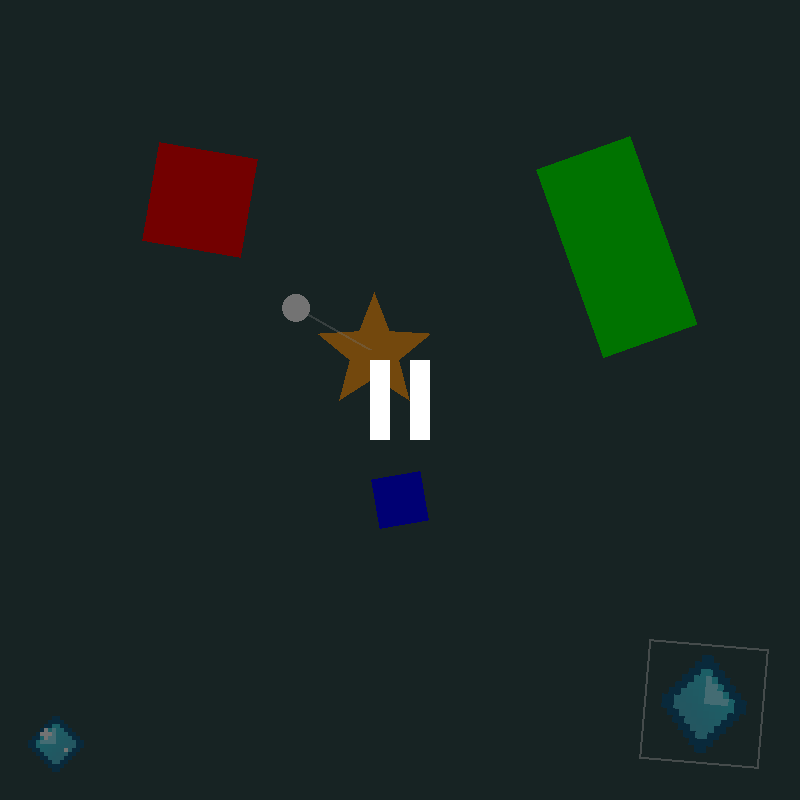
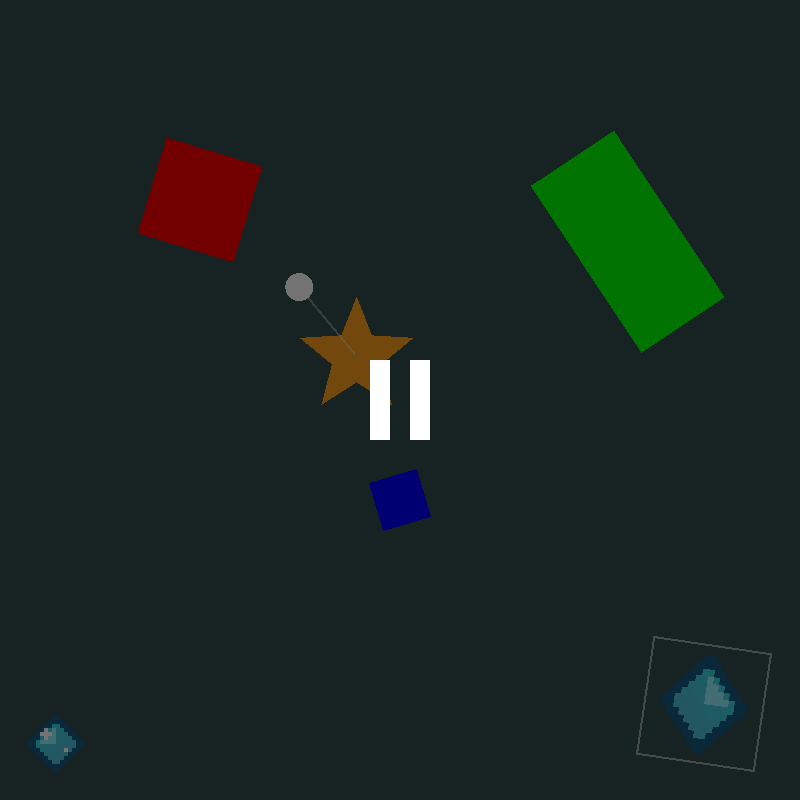
Fix the review findings: far-off polygons, capture on exit, overlay transform, sheet bleed

diff --git a/src/Evil.Engine/Hosting/EngineWindow.cs b/src/Evil.Engine/Hosting/EngineWindow.cs
@@ -67,11 +67,19 @@ internal sealed class EngineWindow : GameWindow
         }
 
         _frame++;
-        if (game.IsExiting || game.Scenes.Count == 0)
+        if (!game.IsExiting && game.Scenes.Count > 0)
         {
-            _closing = true;
-            Close();
+            return;
         }
+
+        if (game.HasPendingCaptures && game.Scenes.Count > 0)
+        {
+            _closeAfterRender = true;
+            return;
+        }
+
+        _closing = true;
+        Close();
     }
 
     protected override void OnRenderFrame(FrameEventArgs args)
@@ -108,13 +116,21 @@ internal sealed class EngineWindow : GameWindow
     protected override void OnKeyDown(KeyboardKeyEventArgs e)
     {
         base.OnKeyDown(e);
-        _keyboard.Press((Key)(int)e.Key, e.IsRepeat);
+        var key = (Key)(int)e.Key;
+        if (Enum.IsDefined(key))
+        {
+            _keyboard.Press(key, e.IsRepeat);
+        }
     }
 
     protected override void OnKeyUp(KeyboardKeyEventArgs e)
     {
         base.OnKeyUp(e);
-        _keyboard.Release((Key)(int)e.Key);
+        var key = (Key)(int)e.Key;
+        if (Enum.IsDefined(key))
+        {
+            _keyboard.Release(key);
+        }
     }
 
     protected override void OnMouseMove(MouseMoveEventArgs e)
@@ -149,11 +165,17 @@ internal sealed class EngineWindow : GameWindow
 
     protected override void OnUnload()
     {
-        _game?.Scenes.ExitAll();
-        _textures?.Dispose();
-        _white?.Dispose();
-        _renderer?.Dispose();
-        base.OnUnload();
+        try
+        {
+            _game?.Scenes.ExitAll();
+        }
+        finally
+        {
+            _textures?.Dispose();
+            _white?.Dispose();
+            _renderer?.Dispose();
+            base.OnUnload();
+        }
     }
 
     private static GameWindowSettings GameSettings(WindowSettings window) => new()

diff --git a/src/Evil.Engine/Graphics/BatchRenderer.cs b/src/Evil.Engine/Graphics/BatchRenderer.cs
@@ -47,7 +47,11 @@ internal sealed class BatchRenderer : ITriangleSink, IDisposable
         GL.Disable(EnableCap.DepthTest);
         GL.Disable(EnableCap.CullFace);
         GL.Enable(EnableCap.Blend);
-        GL.BlendFunc(BlendingFactor.SrcAlpha, BlendingFactor.OneMinusSrcAlpha);
+        GL.BlendFuncSeparate(
+            BlendingFactorSrc.SrcAlpha,
+            BlendingFactorDest.OneMinusSrcAlpha,
+            BlendingFactorSrc.One,
+            BlendingFactorDest.OneMinusSrcAlpha);
         _shader.Use();
         _shader.Set("u_viewport", viewport);
         _shader.Set("u_texture", 0);
@@ -105,8 +109,7 @@ internal sealed class BatchRenderer : ITriangleSink, IDisposable
         GL.BindTexture(TextureTarget.Texture2D, _texture.Handle);
         GL.BindVertexArray(_vertexArray);
         GL.BindBuffer(BufferTarget.ArrayBuffer, _vertexBuffer);
-        GL.BufferData(BufferTarget.ArrayBuffer, Capacity * Vertex.SizeInBytes, IntPtr.Zero, BufferUsageHint.StreamDraw);
-        GL.BufferSubData(BufferTarget.ArrayBuffer, IntPtr.Zero, _count * Vertex.SizeInBytes, _vertices);
+        GL.BufferData(BufferTarget.ArrayBuffer, _count * Vertex.SizeInBytes, _vertices, BufferUsageHint.StreamDraw);
         GL.DrawArrays(PrimitiveType.Triangles, 0, _count);
         DrawCalls++;
         Triangles += _count / 3;

diff --git a/tests/Evil.Engine.Tests/TextureTests.cs b/tests/Evil.Engine.Tests/TextureTests.cs
@@ -1,4 +1,6 @@
+using System.Numerics;
 using Evil.Engine.Graphics;
+using Evil.Engine.Textures;
 using Evil.Engine.Mathematics;
 
 namespace Evil.Engine.Tests;
@@ -30,6 +32,20 @@ internal static class TextureTests
         var quarter = sheet.Region(32, 32, 32, 32);
         Check.Equal(new RectI(40, 36, 8, 8), quarter.Region(new RectI(8, 4, 8, 8)).Source, "offset inside the parent");
         Check.Throws<ArgumentOutOfRangeException>(() => quarter.Region(new RectI(30, 0, 8, 8)));
+    }
+
+    [Test]
+    public static void SmoothSheetsStayInsideTheirCell()
+    {
+        var smooth = Fakes.Texture(32, 16, "smooth", TextureFilter.Linear);
+        var canvasAndSink = Fakes.Canvas();
+        canvasAndSink.Canvas.Draw(smooth.Grid(16, 16)[1], new RectF(0f, 0f, 32f, 32f));
+        var vertices = canvasAndSink.Sink.Vertices;
+        Check.Near(new Vector2(16.5f / 32f, 0.5f / 16f), vertices[0].TexCoord, "top-left half a texel in");
+        Check.Near(new Vector2(31.5f / 32f, 15.5f / 16f), vertices[4].TexCoord, "bottom-right half a texel in");
+        canvasAndSink.Sink.Batches.Clear();
+        canvasAndSink.Canvas.Draw(smooth, new RectF(0f, 0f, 32f, 16f));
+        Check.Near(Vector2.Zero, canvasAndSink.Sink.Vertices[0].TexCoord, "the whole texture keeps its edges");
     }
 
     [Test]

diff --git a/tests/Evil.Engine.Tests/SceneTests.cs b/tests/Evil.Engine.Tests/SceneTests.cs
@@ -1,3 +1,4 @@
+using System.Numerics;
 using Evil.Engine.Graphics;
 using Evil.Engine.Hosting;
 using Evil.Engine.Mathematics;
@@ -71,6 +72,18 @@ internal static class SceneTests
     }
 
     [Test]
+    public static void AnOverlayStartsFromAClearTransform()
+    {
+        var scenes = new SceneStack(null);
+        scenes.Push(new CameraScene());
+        scenes.Push(new LoggingScene("pause", [], overlay: true));
+        scenes.ApplyChanges();
+        var (canvas, sink, _) = Fakes.Canvas();
+        scenes.Draw(canvas);
+        Check.Near(Vector2.Zero, sink.Batches[^1].Vertices[0].Position, "the overlay is not moved by the camera below");
+    }
+
+    [Test]
     public static void ASceneThatForgetsPopIsNamed()
     {
         var scenes = new SceneStack(null);
@@ -104,6 +117,15 @@ internal static class SceneTests
         protected override void Draw(Canvas canvas)
         {
             log.Add($"{name}.draw");
+            canvas.FillRect(new RectF(0f, 0f, 1f, 1f), Color.White);
+        }
+    }
+
+    private sealed class CameraScene : Scene
+    {
+        protected override void Draw(Canvas canvas)
+        {
+            canvas.Translate(-300f, -200f);
             canvas.FillRect(new RectF(0f, 0f, 1f, 1f), Color.White);
         }
     }

diff --git a/src/Evil.Engine/Textures/TextureRegion.cs b/src/Evil.Engine/Textures/TextureRegion.cs
@@ -9,8 +9,10 @@ public sealed class TextureRegion
     {
         Texture = texture;
         Source = source;
-        UvMin = new Vector2(source.Left / (float)texture.Width, source.Top / (float)texture.Height);
-        UvMax = new Vector2(source.Right / (float)texture.Width, source.Bottom / (float)texture.Height);
+        var size = new Vector2(texture.Width, texture.Height);
+        var inset = InsetFor(texture, source);
+        UvMin = (new Vector2(source.Left, source.Top) + inset) / size;
+        UvMax = (new Vector2(source.Right, source.Bottom) - inset) / size;
     }
 
     public Texture2D Texture { get; }
@@ -36,5 +38,11 @@ public sealed class TextureRegion
         }
 
         return new TextureRegion(Texture, placed);
+    }
+
+    private static Vector2 InsetFor(Texture2D texture, RectI source)
+    {
+        var wholeTexture = source == new RectI(0, 0, texture.Width, texture.Height);
+        return texture.Filter == TextureFilter.Linear && !wholeTexture ? new Vector2(0.5f) : Vector2.Zero;
     }
 }

diff --git a/tests/Evil.Engine.Tests/PolygonTests.cs b/tests/Evil.Engine.Tests/PolygonTests.cs
@@ -88,6 +88,19 @@ internal static class PolygonTests
         Check.Near(Vector2.Zero, rect.CenteredOnOrigin().Centroid, "centered");
     }
 
+    [Test]
+    public static void ShapesFarFromTheOriginKeepTheirArea()
+    {
+        var near = new Polygon(new(0f, 0f), new(1.5f, 0f), new(1.5f, 0.3f), new(0.3f, 0.3f), new(0.3f, 1.5f), new(0f, 1.5f));
+        var far = near.Translate(new Vector2(20000f, 15000f));
+        Check.Near(near.Area, far.Area, "area", 0.01f);
+        Check.Near(far.Area, TriangleArea(far), "covered area", 0.05f);
+        Check.Near(near.Centroid + new Vector2(20000f, 15000f), far.Centroid, "centroid", 0.05f);
+
+        var star = Polygon.Star(new Vector2(8000f, 6000f), 16f, 7f, 5);
+        Check.Near(new Vector2(8000f, 6000f), star.Centroid, "small star centroid", 0.05f);
+    }
+
     private static float TriangleArea(Polygon polygon)
     {
         var total = 0f;

diff --git a/src/Evil.Engine/Textures/TextureLibrary.cs b/src/Evil.Engine/Textures/TextureLibrary.cs
@@ -2,7 +2,8 @@ namespace Evil.Engine.Textures;
 
 public sealed class TextureLibrary : IDisposable
 {
-    private readonly Dictionary<string, Texture2D> _files = new(StringComparer.Ordinal);
+    private readonly Dictionary<string, Texture2D> _files =
+        new(OperatingSystem.IsWindows() ? StringComparer.OrdinalIgnoreCase : StringComparer.Ordinal);
     private readonly List<Texture2D> _created = [];
 
     internal TextureLibrary(string root, TextureFilter defaultFilter)
@@ -24,7 +25,7 @@ public sealed class TextureLibrary : IDisposable
         ArgumentException.ThrowIfNullOrWhiteSpace(path);
         var fullPath = Path.GetFullPath(Path.Combine(Root, path));
         var key = $"{fullPath}|{filter}";
-        if (_files.TryGetValue(key, out var cached))
+        if (_files.TryGetValue(key, out var cached) && !cached.IsDisposed)
         {
             return cached;
         }

diff --git a/tests/Evil.Engine.Tests/MathTests.cs b/tests/Evil.Engine.Tests/MathTests.cs
@@ -13,6 +13,7 @@ internal static class MathTests
         Check.Near(270f, Angle.Wrap(-90f), "wrap -90");
         Check.Near(0f, Angle.Wrap(720f), "wrap 720");
         Check.Near(10f, Angle.Wrap(370f), "wrap 370");
+        Check.True(Angle.Wrap(-1e-5f) < 360f, "a tiny negative angle never wraps to 360");
     }
 
     [Test]
@@ -37,6 +38,8 @@ internal static class MathTests
         Check.Equal(new RectF(0f, 0f, 15f, 15f), a.Union(b), "union");
         Check.True(!a.Intersects(new RectF(10f, 0f, 5f, 5f)), "touching edges do not intersect");
         Check.Equal(RectF.Empty, a.Intersect(new RectF(20f, 20f, 1f, 1f)), "no overlap");
+        Check.Equal(new RectF(100f, 100f, 10f, 10f), RectF.Empty.Union(new RectF(100f, 100f, 10f, 10f)), "empty does not pull in the origin");
+        Check.Equal(a, a.Union(RectF.Empty), "union with empty");
     }
 
     [Test]

diff --git a/src/Evil.Engine.Mathematics/Polygon.cs b/src/Evil.Engine.Mathematics/Polygon.cs
@@ -142,16 +142,17 @@ public sealed class Polygon
             return sum / points.Length;
         }
 
+        var anchor = points[0];
         var centroid = Vector2.Zero;
-        for (var i = 0; i < points.Length; i++)
+        for (var i = 1; i < points.Length - 1; i++)
         {
-            var a = points[i];
-            var b = points[(i + 1) % points.Length];
+            var a = points[i] - anchor;
+            var b = points[i + 1] - anchor;
             var cross = a.X * b.Y - b.X * a.Y;
             centroid += (a + b) * cross;
         }
 
-        return centroid / (6f * signedArea);
+        return anchor + centroid / (6f * signedArea);
     }
 
     private static bool MeasureConvex(ReadOnlySpan<Vector2> points)

diff --git a/src/Evil.Engine/Input/Key.cs b/src/Evil.Engine/Input/Key.cs
@@ -65,6 +65,10 @@ public enum Key
     Home = 268,
     End = 269,
     CapsLock = 280,
+    ScrollLock = 281,
+    NumLock = 282,
+    PrintScreen = 283,
+    Pause = 284,
     F1 = 290,
     F2 = 291,
     F3 = 292,
@@ -87,7 +91,13 @@ public enum Key
     KeyPad7 = 327,
     KeyPad8 = 328,
     KeyPad9 = 329,
+    KeyPadDecimal = 330,
+    KeyPadDivide = 331,
+    KeyPadMultiply = 332,
+    KeyPadSubtract = 333,
+    KeyPadAdd = 334,
     KeyPadEnter = 335,
+    KeyPadEqual = 336,
     LeftShift = 340,
     LeftControl = 341,
     LeftAlt = 342,
@@ -96,4 +106,5 @@ public enum Key
     RightControl = 345,
     RightAlt = 346,
     RightSuper = 347,
+    Menu = 348,
 }

diff --git a/src/Evil.Engine.Mathematics/Triangulator.cs b/src/Evil.Engine.Mathematics/Triangulator.cs
@@ -42,12 +42,16 @@ public static class Triangulator
 
     public static float SignedArea(ReadOnlySpan<Vector2> points)
     {
-        var sum = 0f;
-        for (var i = 0; i < points.Length; i++)
+        if (points.Length < 3)
         {
-            var a = points[i];
-            var b = points[(i + 1) % points.Length];
-            sum += a.X * b.Y - b.X * a.Y;
+            return 0f;
+        }
+
+        var anchor = points[0];
+        var sum = 0f;
+        for (var i = 1; i < points.Length - 1; i++)
+        {
+            sum += Cross(points[i] - anchor, points[i + 1] - anchor);
         }
 
         return sum / 2f;

diff --git a/tests/Evil.Engine.Tests/Fakes.cs b/tests/Evil.Engine.Tests/Fakes.cs
@@ -15,8 +15,8 @@ internal sealed class RecordingSink : ITriangleSink
 
 internal static class Fakes
 {
-    public static Texture2D Texture(int width, int height, string name = "fake") =>
-        new(0, width, height, name, TextureFilter.Nearest, ownsHandle: false);
+    public static Texture2D Texture(int width, int height, string name = "fake", TextureFilter filter = TextureFilter.Nearest) =>
+        new(0, width, height, name, filter, ownsHandle: false);
 
     public static (Canvas Canvas, RecordingSink Sink, Texture2D White) Canvas()
     {
